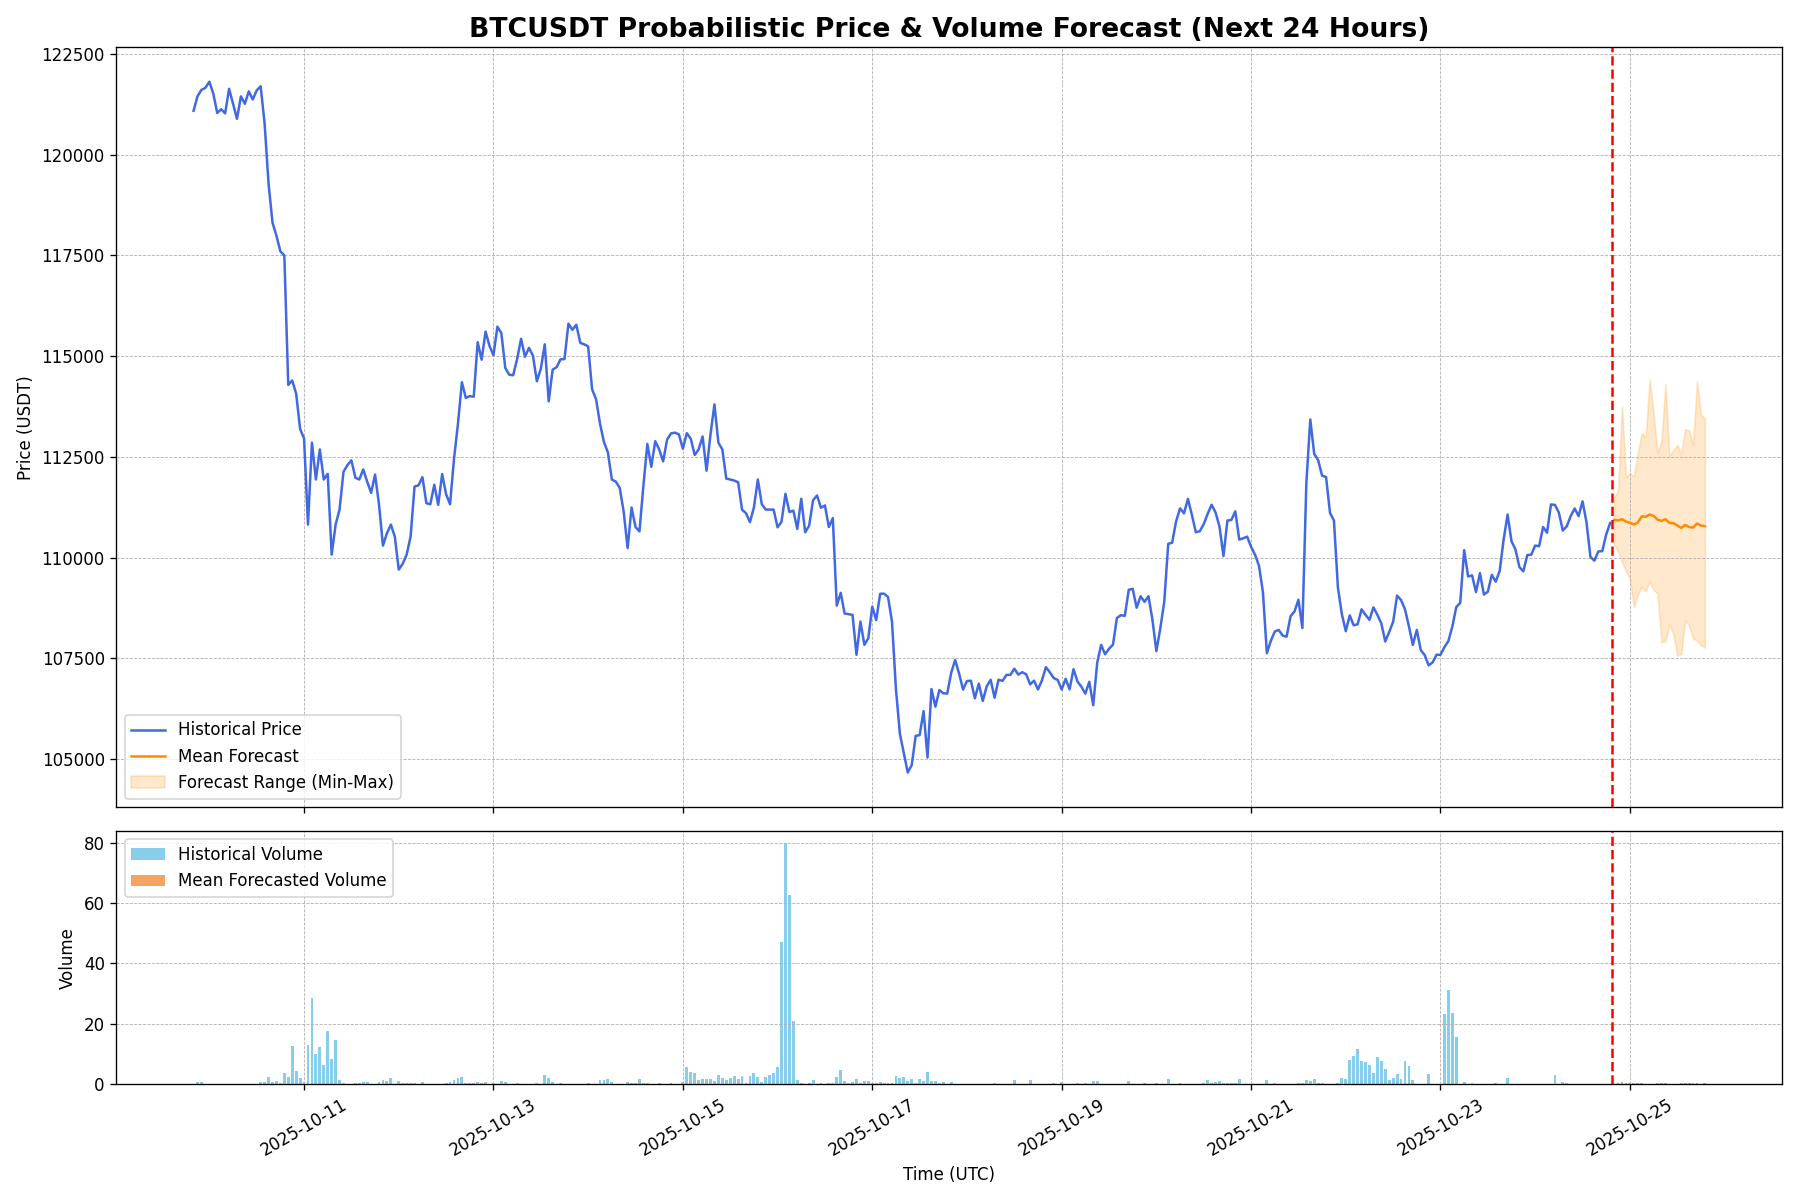
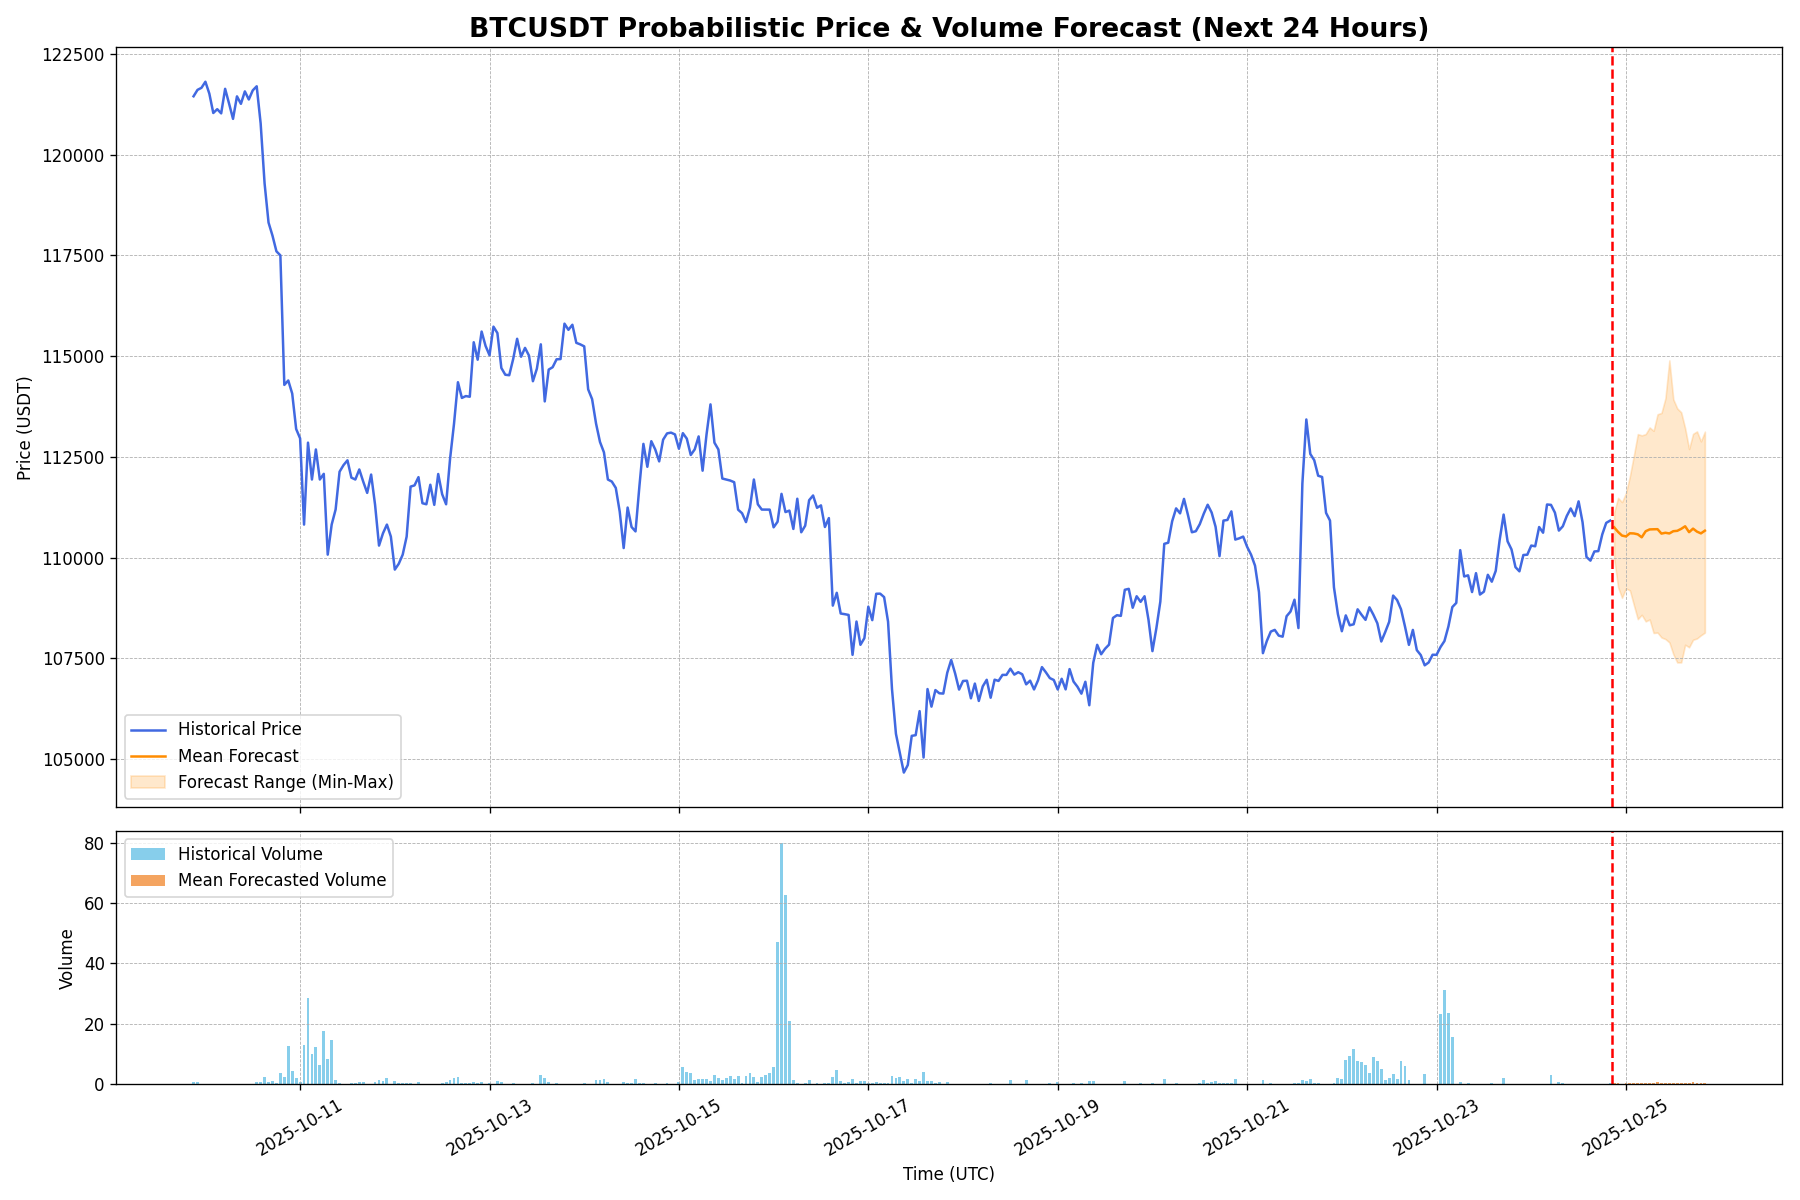
Auto-update forecast for 2025-10-24 21:07 UTC

diff --git a/index.html b/index.html
@@ -22,19 +22,19 @@
         <section id="live-dashboard">
             <h2>Live BTC/USDT Forecast Dashboard</h2>
             <div class="metadata">
-                <span>Last Updated (UTC): <strong id="update-time">2025-10-24 20:11:49</strong></span>
+                <span>Last Updated (UTC): <strong id="update-time">2025-10-24 21:07:51</strong></span>
                 <span>Data Source: Binance | Interval: 1-Hour</span>
             </div>
 
             <div class="metrics-container">
                 <div class="metric-card">
                     <h3>Upside Probability (Next 24h)</h3>
-                    <p class="metric-value" id="upside-prob">46.7%</p>
+                    <p class="metric-value" id="upside-prob">50.0%</p>
                     <div class="metric-desc">The model's confidence that the price in 24 hours will be higher than the last known price.</div>
                 </div>
                 <div class="metric-card">
                     <h3>Volatility Amplification (Next 24h)</h3>
-                    <p class="metric-value" id="vol-amp-prob">40.0%</p>
+                    <p class="metric-value" id="vol-amp-prob">26.7%</p>
                     <div class="metric-desc">The probability that predicted volatility over the next 24h will exceed recent historical volatility.</div>
                 </div>
             </div>
